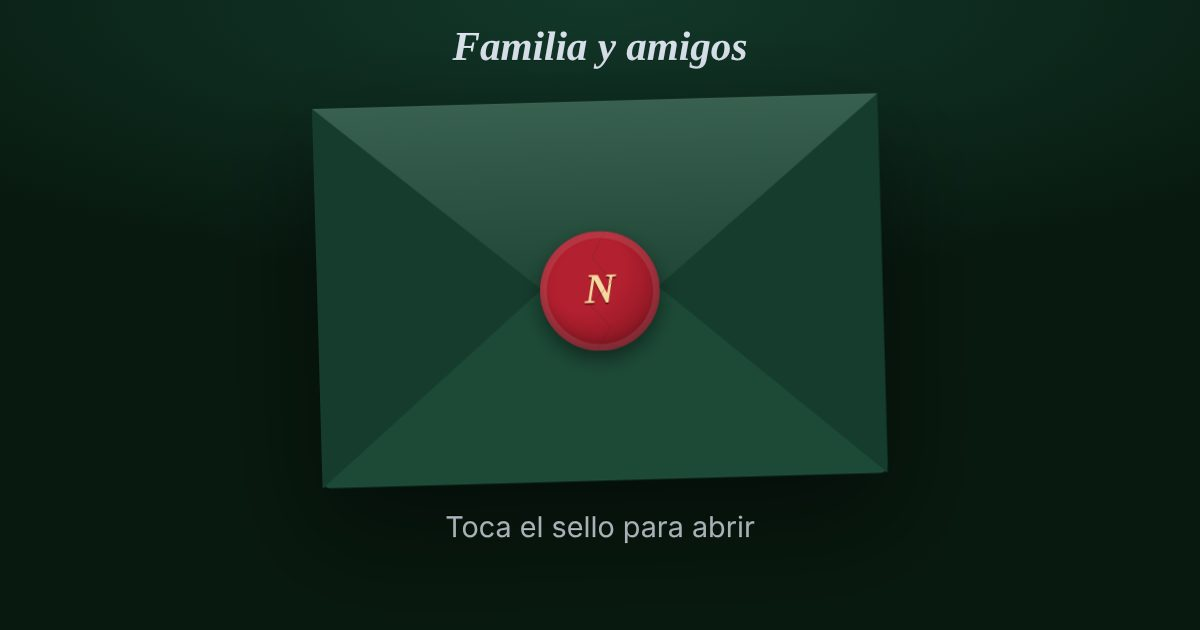
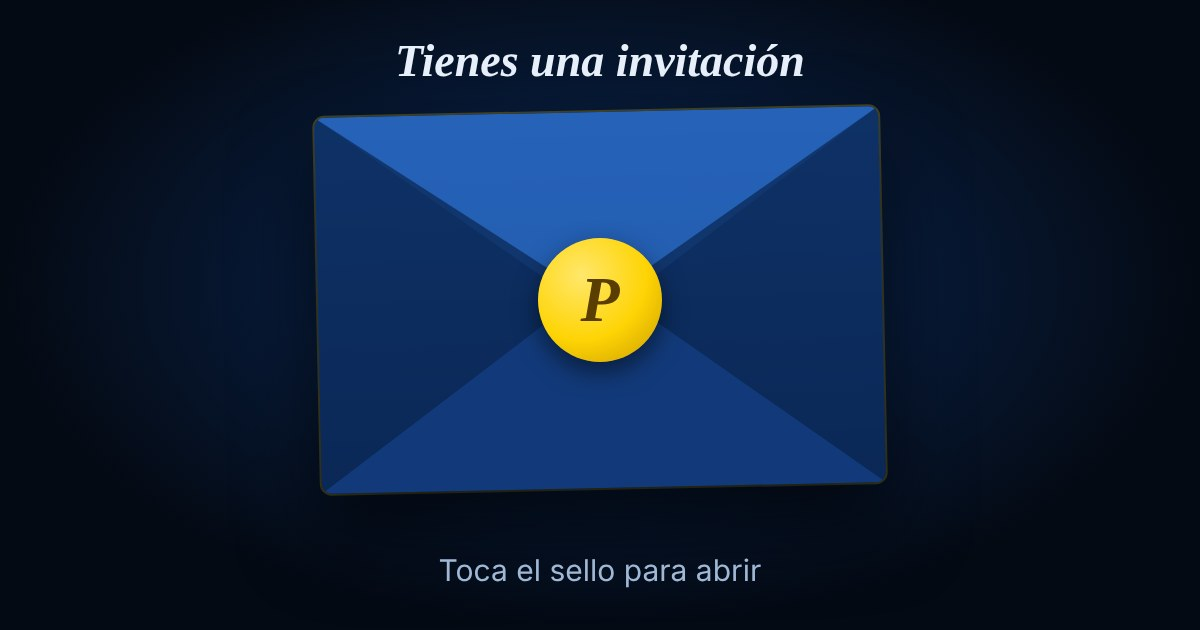
Corp: sin scroll/venta/tile amigo secreto; OG neutral

diff --git a/invitacion/invitacion.js b/invitacion/invitacion.js
@@ -284,7 +284,7 @@
     var q2 = encodeURIComponent(t.place + ', ' + t.mapq);
     var pl = '<div class="mapv"><svg viewBox="0 0 300 150" role="img" aria-label="Mapa ilustrado"><rect width="300" height="150" class="mb"/><g class="mr"><path d="M0 40h300M0 100h300M60 0v150M170 0v150M250 0v150"/></g><path class="mp" d="M30 128H60V100H170V40H250" /><circle cx="30" cy="128" r="5" class="ms"/><g class="pin" transform="translate(250 40)"><circle r="16" class="ring"/><path d="M0 0c-9-12-12-17-12-23a12 12 0 0124 0c0 6-3 11-12 23z" transform="translate(0 -2)" class="pb"/><circle cy="-25" r="4.5" fill="#fff"/></g></svg></div><p><b>' + esc(t.place) + '</b></p><p><a class="btn-map" target="_blank" rel="noopener noreferrer" href="https://www.google.com/maps/search/?api=1&query=' + q2 + '">Cómo llegar · Google Maps</a></p>' + (REAL ? '' : '<small>Hay parqueadero cerca. Si vienes en taxi, llega 10 minutos antes.</small>') + '';
     var ex = '<button type="button" class="gift" aria-label="Abrir sorpresa"><svg viewBox="0 0 100 90" width="110"><g class="lid"><rect x="8" y="24" width="84" height="18" rx="3" fill="var(--accent)"/><rect x="45" y="24" width="10" height="18" fill="rgba(255,255,255,.55)"/><path d="M50 24c-14-18-30-6-18 0M50 24c14-18 30-6 18 0" fill="none" stroke="rgba(255,255,255,.8)" stroke-width="4" stroke-linecap="round"/></g><rect x="14" y="42" width="72" height="42" rx="3" fill="var(--accent)" opacity=".85"/><rect x="45" y="42" width="10" height="42" fill="rgba(255,255,255,.55)"/></svg><span>Toca para abrir</span></button><p class="gtx">' + esc(t.extra[2]) + '</p>';
-    var has = { it: t.it && t.it.length, dr: t.dress && t.dress[0], me: t.menu && t.menu.length, pl: t.place, ex: t.extra && t.extra[1] };
+    var has = { it: t.it && t.it.length, dr: t.dress && t.dress[0], me: t.menu && t.menu.length, pl: t.place, ex: !t.corp && t.extra && t.extra[1] };
     $('tiles').innerHTML = (has.it ? tile('it', 'it', 'Itinerario', it) : '') + (has.dr ? tile('dr', 'dr', 'Vestimenta', dr) : '') + (has.me ? tile('me', 'me', 'Menú', me) : '') + (has.pl ? tile('pl', 'pl', 'Lugar', pl + mapEmbed(t)) : '') + (has.ex ? tile('ex', t.extra[0] || 'gi', t.extra[1], ex) : '');
   }
 
@@ -370,7 +370,7 @@
     $('sn' + n).hidden = true; var g = SG['sg' + (n + 1)]; g.classList.add('show');
     if (n === 1) { lights(true); chime([72, 76, 79, 84]); var r = $('cdeco').getBoundingClientRect(); burstAt(innerWidth / 2, r.top + 40, T[cur].fx === 'nieve' ? 'chispas' : T[cur].fx, 26); } else chime([76, 83]);
     if (n < 3) $('sn' + (n + 1)).hidden = false;
-    setTimeout(function () { g.scrollIntoView({ behavior: reduce ? 'auto' : 'smooth', block: 'start' }); }, 80);
+    if (!document.body.classList.contains('corp')) setTimeout(function () { g.scrollIntoView({ behavior: reduce ? 'auto' : 'smooth', block: 'start' }); }, 80);
   }
   function resetStory() {
     if (!SG.sg2) return; lights(false);

diff --git a/invitacion/index.html b/invitacion/index.html
@@ -12,9 +12,9 @@
 <meta property="og:locale" content="es_EC">
 <meta property="og:type" content="website">
 <meta property="og:url" content="https://insecret.poseidonmk.com/invitacion/">
-<meta property="og:title" content="✉ Toca el sello y abre tu invitación">
+<meta property="og:title" content="✉ Tienes una invitación">
 <meta property="og:description" content="Invitaciones interactivas para cenas, bodas y cumpleaños. Hechas por Poseidón.">
-<meta property="og:image" content="https://insecret.poseidonmk.com/assets/og-invitacion.jpg">
+<meta property="og:image" content="https://insecret.poseidonmk.com/assets/og-invitacion.jpg?v=2">
 <meta property="og:image:width" content="1200">
 <meta property="og:image:height" content="630">
 <meta name="twitter:card" content="summary_large_image">
@@ -133,6 +133,6 @@
 
 <script src="../config.js?v=1"></script>
 <script src="defaults.js?v=1"></script>
-<script src="invitacion.js?v=19"></script>
+<script src="invitacion.js?v=20"></script>
 </body>
 </html>

diff --git a/invitacion/invitacion.css b/invitacion/invitacion.css
@@ -491,3 +491,6 @@ body[data-theme=fin] .scene#scene-env::before{background-image:url(../assets/dec
 .fa-cita img{-webkit-mask-image:linear-gradient(#000 72%,transparent);mask-image:linear-gradient(#000 72%,transparent)}
 .ha-fin{height:300px;background-position:center bottom;-webkit-mask-image:linear-gradient(#000 86%,transparent);mask-image:linear-gradient(#000 86%,transparent)}
 body .card:has(.ha-fin){padding-top:290px!important}
+
+body.corp .sell{display:none}
+body.corp #again{display:none}
